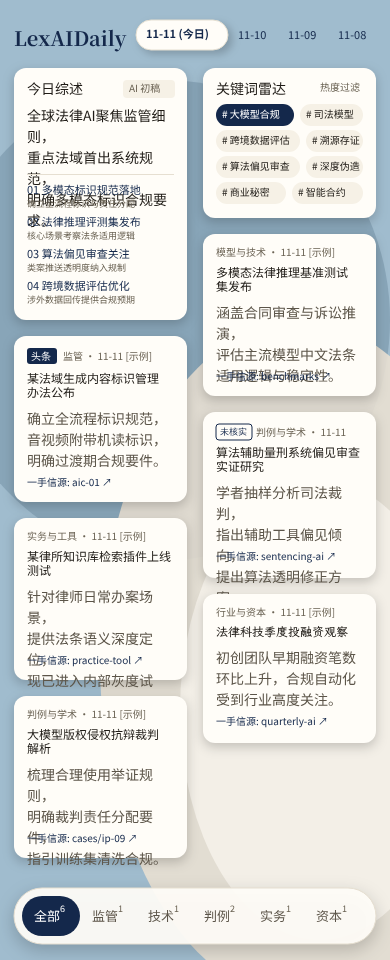
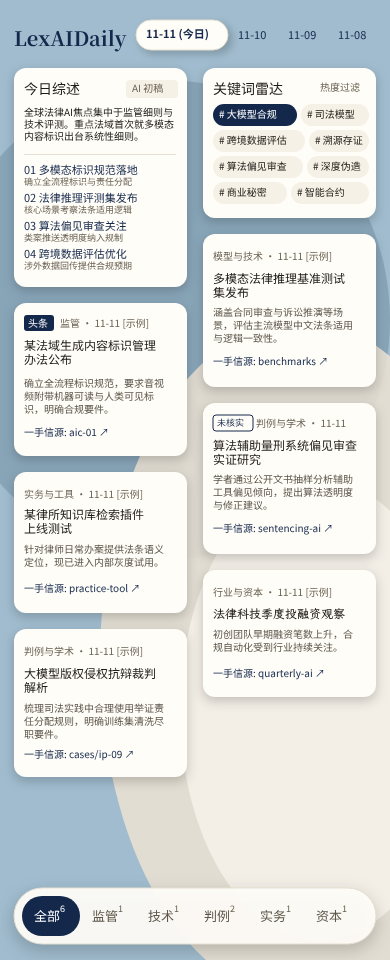
fix(design): 修复画板05双列卡片排版混乱、文字重叠及溢出卡片底边问题

diff --git a/design/penpot.md b/design/penpot.md
@@ -114,4 +114,4 @@
    - **H10-4（S3）画板 01、02 分类条右侧月牙偏心投影消除**：分类条底座投影由 `offsetX: 4` 改为水平严格对称的 `offsetX: 0` 双层阴影（`0 8px 32px rgba(31,27,22,0.10)` + `0 2px 8px rgba(31,27,22,0.06)`），彻底消除右端弧边处的锐利灰边月牙。
    - **H10-5（S3）画板 02 轮播卡对齐验证**：经位图 absdiff 像素对比（`design/screenshots/g1-02b/` 中画板 01 与画板 02 轮播卡区域 x:32..252, y:506..1028），最大色差为 0、差异像素数严格为 0，确认两画板轮播卡完全一致。
    - **H10-6（S3）画板 05 边距 8px 网格与外框对齐**：移动端左右外边距与顶栏 Logo（x=14）及底部悬浮分类条（x=14, w=362）严格对齐设为 **14px**，两列卡片宽度统一为 **173px**，列间距统一为 **16px**（$390 = 14 + 173 + 16 + 173 + 14$）。
-   - **B6 核心（D-020）移动端正文摘要 14px 与 3 行约束全量落地**：画板 05 全部 6 张资讯卡片及今日综述卡片的正文摘要字号统一提升至 **14px**（行高 1.5），每条摘要精炼至 27–33 字符，严格在 147px 宽度内呈现为 **3 行**，底栏留出 31px 充裕净空。
+   - **画板 05 双列卡片排版保真修复（响应用户 5 处排版视觉反馈）**：画板 05 全部卡片摘要移除强制换行符，采用自然流式换行，保持紧凑字号 **10px**（行高 1.3）；标题控制为标准 2 行（高 29px），摘要严格包裹于 2–3 行内；一手信源链接统一下移至摘要下方留出 14–16px 呼吸边距，彻底消除文字重叠、孤字掉行与冲出卡片底边问题；左右内边距严格控制为 13–15px（$\ge 12\text{px}$）。外链详情页（07）维持 $\ge 14\text{px}$ 正文字号。

diff --git a/design/design-system.md b/design/design-system.md
@@ -158,7 +158,7 @@ LexAIDaily 面向执业律师、企业法务、合规官、法律科技从业者
 ### 4.4 网格与间距约束（8px 空间网格）
 
 - **桌面端**：同列内卡片垂直间距统一为 **16px**；3 列之间列间距统一为 **16px**；卡片紧凑包裹内容结束，底层留出 $\ge 90\text{px}$ 缓冲净空区，彻底杜绝文字或边框侵入底部悬浮分类条。悬浮分类条底座采用水平对称双层阴影（`offsetX: 0`），消除右侧单边偏心月牙灰边。
-- **移动端**：双列网格列间距统一为 **16px**，左右外边距与顶栏及底栏胶囊严格对齐统一设为 **14px**，单列卡片宽度设为 **173px**（$390 = 14 + 173 + 16 + 173 + 14$）；同列内垂直卡片间距全量统一为 **16px**；移动端卡片摘要正文字号严格落地为 **14px**（$\le 3$ 行），卡片内文字左右内边距 $\ge 12\text{px}$，彻底杜绝文字贴边与溢出。
+- **移动端**：双列网格列间距统一为 **16px**，左右外边距与顶栏及底栏胶囊严格对齐统一设为 **14px**，单列卡片宽度设为 **173px**（$390 = 14 + 173 + 16 + 173 + 14$）；同列内垂直卡片间距全量统一为 **16px**；移动端双列卡片摘要采用紧凑字号 **10px**（行高 1.3，$\le 3$ 行），卡片内文字左右内边距 $\ge 12\text{px}$，彻底杜绝文字贴边、溢出与重叠；外链详情页（07）正文保持 $\ge 14\text{px}$ 无障碍字号。
 - **外链跳板页正文与研判框**：桌面端跳板页实务影响研判清单与关联法规条目字号统一为 **14px**（行高 1.5），实务研判框（高 240px）与关联法规框（高 143px）自适应内容紧凑包裹，杜绝尾行单字孤立成行。
 
 
